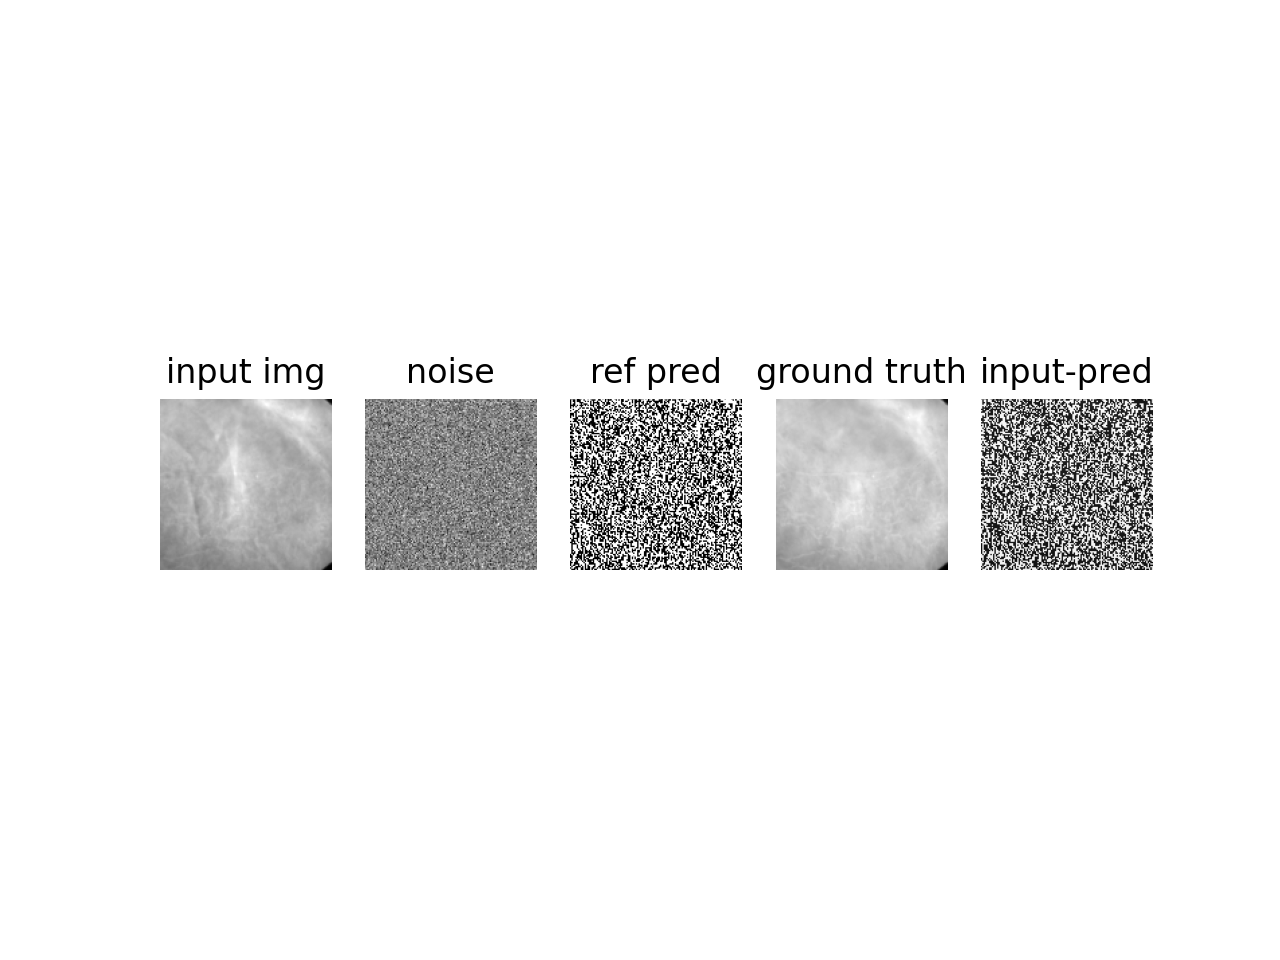
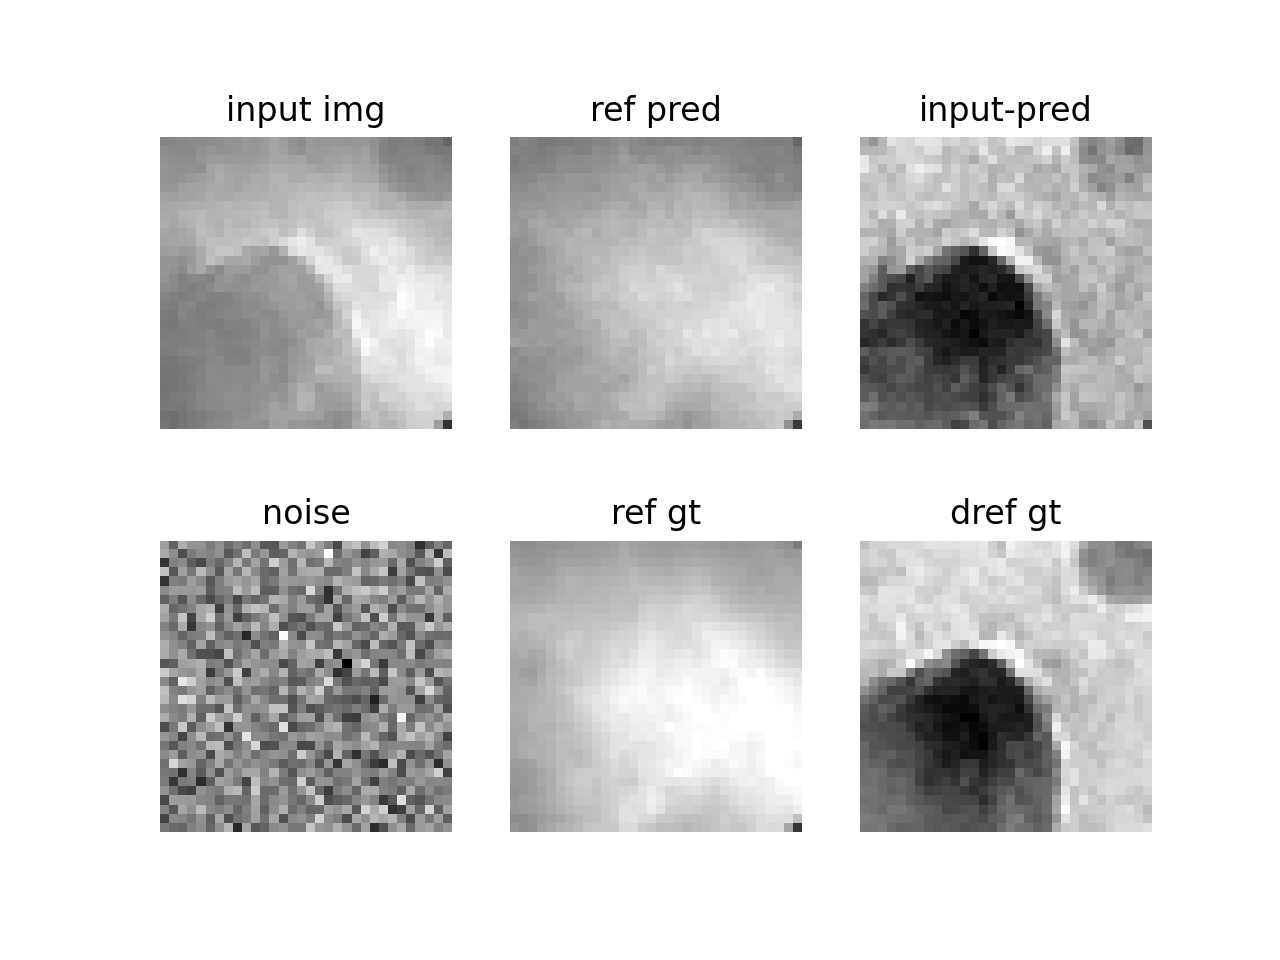
update

diff --git a/utils.py b/utils.py
@@ -1,6 +1,9 @@
 import os
 import torch
+import numpy as np
+import glob
 import matplotlib as mpl
+from PIL import Image
 mpl.use('Agg')
 mpl.rcParams['figure.dpi'] = 200
 import matplotlib.pyplot as plt
@@ -19,40 +22,52 @@ def check_distributed():
     return rank, local_rank, world_size, is_distributed
 
 
-def model_eval(dataset, args):
+def model_eval(args):
     with torch.no_grad():
+        size = args.img_size
+        raw_dref = Image.open('./training_data_n/dref/20230222_Sb_m4-1-b2-60s-0.88V_0004.tif').resize((size, size))
+        raw_dref = np.array(raw_dref)
+        ref_files = sorted(glob.glob("%s/ref/*.tif"%args.data_dir))
+        ref_truth = Image.open(ref_files[7]).resize((size, size))
+        ref_truth = np.array(ref_truth)
+        input_img = raw_dref*ref_truth
+        ref_truth = ref_truth/input_img.max()
+        input_img = torch.Tensor(input_img/input_img.max())
+        
         model = Diffusion_UNet().to(args.device)
         model.load_state_dict(torch.load(args.model_save_dir+'/'+args.checkpoint, map_location=args.device), strict=False)
         print("Model weight load down.")
         model.eval()
         sampler = GaussianDiffusionSampler(model, args.beta_1, args.beta_T, args.T).to(args.device)
-        noisyImage = torch.randn(size=[1, 1, args.img_size, args.img_size], device=args.device)
+        noisyImage = torch.randn(size=[1, 1, size, size], device=args.device)
         # saveNoisy = torch.clamp(noisyImage * 0.5 + 0.5, 0, 1)
-        input_img = dataset[200][0].squeeze().numpy()
-        ref_truth = dataset[200][1].squeeze().numpy()
-        pred = sampler(dataset[0][0].unsqueeze(0).to(args.device), noisyImage).squeeze().cpu().numpy()
-        obj_pred = input_img-pred
+        pred = sampler(input_img.view(1, 1, size, size).to(args.device), noisyImage).squeeze().cpu().numpy()
+        obj_pred = input_img/pred
         fig = plt.figure()
-        plt.subplot(151)
+        plt.subplot(231)
         plt.title('input img')
         plt.axis('off')
-        plt.imshow(input_img, cmap='gray')
-        plt.subplot(152)
+        plt.imshow(input_img, cmap='gray', vmin=0, vmax=1)
+        plt.subplot(234)
         plt.title('noise')
         plt.axis('off')
         plt.imshow(noisyImage.squeeze().cpu().numpy(), cmap='gray')
-        plt.subplot(153)
+        plt.subplot(232)
         plt.title('ref pred')
         plt.axis('off')
-        plt.imshow(pred, cmap='gray')
-        plt.subplot(154)
-        plt.title('ground truth')
+        plt.imshow(pred, cmap='gray', vmin=0, vmax=1)
+        plt.subplot(235)
+        plt.title('ref gt')
         plt.axis('off')
-        plt.imshow(ref_truth, cmap='gray')
-        plt.subplot(155)
+        plt.imshow(ref_truth, cmap='gray', vmin=0, vmax=1)
+        plt.subplot(233)
         plt.title('input-pred')
         plt.axis('off')
         plt.imshow(obj_pred, cmap='gray')
+        plt.subplot(236)
+        plt.title('dref gt')
+        plt.imshow(raw_dref, cmap='gray')
+        plt.axis('off')
         plt.savefig('eval_visualize.png')
 
     

diff --git a/data_preprocess.py b/data_preprocess.py
@@ -31,9 +31,10 @@ class NanoCT_Dataset(Dataset):
         self.input_imgs = [dref*ref for dref in dref_imgs for ref in ref_imgs]
         self.input_imgs = torch.concatenate(self.input_imgs, dim=0).unsqueeze(1)
         # normalize input images to [0, 1]
-        self.input_imgs = self.input_imgs/self.input_imgs.view(num_sample**2, img_size**2).max(dim=1).values.view(-1, 1, 1, 1)
-        self.target_imgs = ref_imgs/ref_imgs.view(num_sample, img_size**2).max(dim=1).values.view(-1, 1, 1, 1)
-        self.target_imgs = self.target_imgs.repeat(100, 1, 1, 1)
+        pair_wise_maximum = self.input_imgs.view(num_sample**2, img_size**2).max(dim=1).values.view(-1, 1, 1, 1)
+        self.input_imgs = self.input_imgs/pair_wise_maximum
+        self.target_imgs = ref_imgs.repeat(100, 1, 1, 1)
+        self.target_imgs = self.target_imgs/pair_wise_maximum
         # print(self.input_imgs.shape, self.target_imgs.shape)
         print('training data preprocessing finished: %.2f sec'%(time.time()-t_start))
 
@@ -50,9 +51,12 @@ if __name__ == "__main__":
     data = NanoCT_Dataset('./training_data_n', 128)
     for i in np.arange(100)*100:
         fig = plt.figure()
-        plt.subplot(121)
-        plt.imshow(data[i][0].squeeze().numpy(), cmap='gray', vmin=0, vmax=1)
-        plt.subplot(122)
-        plt.imshow(data[i][1].squeeze().numpy(), cmap='gray', vmin=0, vmax=1)
+        input_img, ref = data[i][0].squeeze().numpy(), data[i][1].squeeze().numpy()
+        plt.subplot(131)
+        plt.imshow(input_img, cmap='gray', vmin=0, vmax=1)
+        plt.subplot(132)
+        plt.imshow(ref, cmap='gray', vmin=0, vmax=1)
+        plt.subplot(133)
+        plt.imshow(input_img/ref, cmap='gray')
         plt.show()
         plt.close()

diff --git a/main.py b/main.py
@@ -18,16 +18,16 @@ def get_args_parser():
     parser.add_argument('--model_save_dir', default='./checkpoints', type=str)
     parser.add_argument('--load_weight', default=False, type=bool)
     parser.add_argument('--device', default='cuda:0', type=str)
-    parser.add_argument('--batch_size', default=32, type=int)
-    parser.add_argument('--epoch', default=100, type=int)
+    parser.add_argument('--batch_size', default=2, type=int)
+    parser.add_argument('--epoch', default=50, type=int)
 
     parser.add_argument('--model_name', default='DeRef_DDPM', type=str) 
-    parser.add_argument('--checkpoint', default='ckpt_100.pt', type=str)                  
+    parser.add_argument('--checkpoint', default='ckpt_50.pt', type=str)                  
 
     parser.add_argument('--T', default=1000, type=float)
     parser.add_argument('--beta_1', default=1e-4, type=float)
     parser.add_argument('--beta_T', default=0.02, type=float)
-    parser.add_argument('--img_size', default=32, type=int)
+    parser.add_argument('--img_size', default=128, type=int)
     parser.add_argument('--weight_decay', default=1e-4, type=float)
     parser.add_argument('--lr', default=1e-4, type=float)
     parser.add_argument('--grad_clip', default=1., type=float)
@@ -85,12 +85,7 @@ def main(args):
             torch.save(model.state_dict(), '%s/ckpt_%d.pt'%(args.model_save_dir, e+1))
 
 
-def evaluation(args):
-    dataset = NanoCT_Dataset(data_dir='./training_data_n', img_size=args.img_size)
-    model_eval(dataset, args)
-
-
 if __name__ == '__main__':
     args = get_args_parser().parse_args()
-    # evaluation(args)
-    main(args)
+    # main(args)
+    model_eval(args)

diff --git a/ddpm/diffusion.py b/ddpm/diffusion.py
@@ -1,6 +1,7 @@
 import torch
 import torch.nn as nn
 import torch.nn.functional as F
+from tqdm import tqdm
 
 
 def extract(v, t, x_shape):
@@ -78,8 +79,8 @@ class GaussianDiffusionSampler(nn.Module):
         Algorithm 2.
         """
         x_t = x_T
-        for time_step in reversed(range(self.T)):
-            print(time_step)
+        for time_step in tqdm(reversed(range(self.T)), dynamic_ncols=True, desc='Denoise Step'):
+            # print(time_step)
             t = x_t.new_ones([x_T.shape[0], ], dtype=torch.long) * time_step
             mean, var= self.p_mean_variance(condit, x_t, t)
             if time_step > 0:

diff --git a/ddpm/model.py b/ddpm/model.py
@@ -117,7 +117,7 @@ class ResBlock(nn.Module):
 
 
 class Diffusion_UNet(nn.Module):
-    def __init__(self, ch=32, ch_mult=[1, 2, 2, 2], num_res_blocks=2, dropout=0.15):
+    def __init__(self, ch=64, ch_mult=[1, 2, 2, 2], num_res_blocks=2, dropout=0.15):
         super().__init__()
         tdim = ch
         self.time_embedding = TimeEmbedding(tdim)
